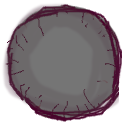
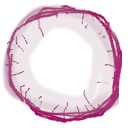
Fix 2bam demo eye color. Sencom tweaks.

diff --git a/apps/micropython/apps/2bam_sencom.py b/apps/micropython/apps/2bam_sencom.py
@@ -456,6 +456,9 @@ class Combat(Scene):
     def on_enter(self):
         super().on_enter()
 
+        director.sound_play(SND_NEW_LEVEL)
+
+
         self.tally=False#True
         self.tally_tmr=0
 
@@ -650,13 +653,24 @@ class Combat(Scene):
             if not city_moved:
                 if self.tally_tmr == 0:
                     director.sound_play(SND_TALLY_END)
-                self.tally_tmr += 1
 
-                self.core.set_y(min(self.core.y()+3,255))
+                ti0 = int(self.tally_tmr * 3)
+                self.tally_tmr += 1
+                ti1 = int(self.tally_tmr * 3)
+
+                self.core.set_y(min(164+int((255-164)*self.tally_tmr/(3*STEPS_PER_SECOND)),255))
+
+                if ti0 != ti1:
+                    pal_i=self.pal_ind_blue
+                    pal=self.pal_copy
+                    if pal_i:
+                        pal[pal_i+1]=randint(0,128)+68
+                        pal[pal_i+2]=randint(0,128)+68
+                        pal[pal_i+3]=randint(0,128)+68
+                        povdisplay.set_palettes(pal)
 
                 if self.tally_tmr >= 2.954*STEPS_PER_SECOND:
                     self.game.level += 1
-                    director.sound_play(SND_NEW_LEVEL)
                     director.pop()
 
 
@@ -687,9 +701,9 @@ class Combat(Scene):
         pal_i=self.pal_ind_boom
         pal=self.pal_copy
         if pal_i:
-            pal[pal_i+1]=randint(0,255)|0x80
-            pal[pal_i+2]=randint(0,255)|0x80
-            pal[pal_i+3]=randint(0,255)|0x80
+            pal[pal_i+1]=randint(0,128)+68#|0x80 # FIXME  157 ya se ve gris, 196 blanco favalli
+            pal[pal_i+2]=randint(0,128)+68#|0x80
+            pal[pal_i+3]=randint(0,128)+68#|0x80
             povdisplay.set_palettes(pal)
 
         # povdisplay.set_palettes(palette)

diff --git a/apps/micropython/apps/2bam_demo.py b/apps/micropython/apps/2bam_demo.py
@@ -6,7 +6,7 @@ from ventilastation.sprites import Sprite
 
 from math import sqrt, atan2, floor, copysign
 
-GUSANOS=20
+GUSANOS=15
 # !"#$%&'()*+,-./0123456789:;>=>?@ABCDEFGHIJKLMNOPQRSTUVWXYZ[\]^_
 class Demo2bam(Scene):
     stripes_rom = "2bam_demo"
@@ -18,8 +18,8 @@ class Demo2bam(Scene):
         seed(ticks_ms())
 
         self.bicho=Sprite()
-        self.label=Label(14,x=48,y=0)
-        self.gusanos=[Gusano(randint(0,255), 10+12*i//GUSANOS, randint(0,1)*180) for i in range(GUSANOS)]
+        self.label=Label(14,x=48,y=4)
+        self.gusanos=[Gusano(randint(-10,10)+255*i//GUSANOS, 5+12*i//GUSANOS, randint(0,1)*180) for i in range(GUSANOS)]
         self.pupila = Sprite()
         self.ojo = Sprite()
 
@@ -139,13 +139,14 @@ class Gusano:
         self.sprite.set_strip(stripes["gusano360.png"])
         self.sprite.set_perspective(1)
         
+        self.vx=-1 if angle<180 else 1
         self.x=x
         self.frame = 0
         self.angle=angle
         self.step()
 
     def step(self):
-        self.x+=randint(-1,1)*randint(1,4)
+        self.x+=self.vx*randint(1,3)
         self.sprite.set_x(int(self.x))
         self.frame=(self.frame+1)%4
         self.sprite.set_frame(self.frame+6*(self.angle//90))
